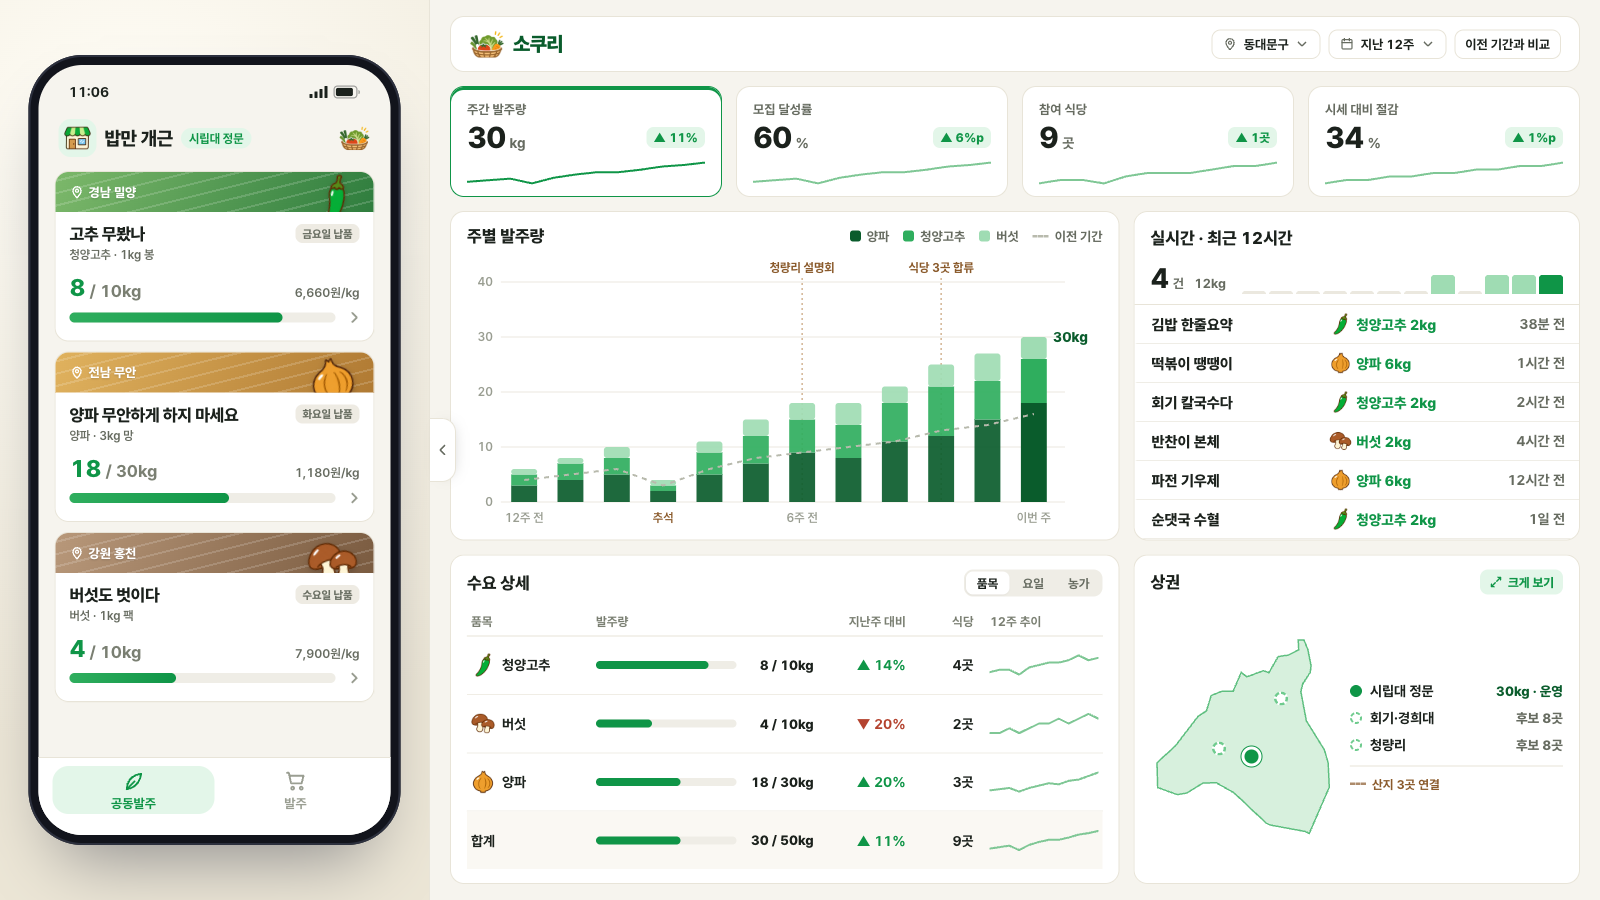
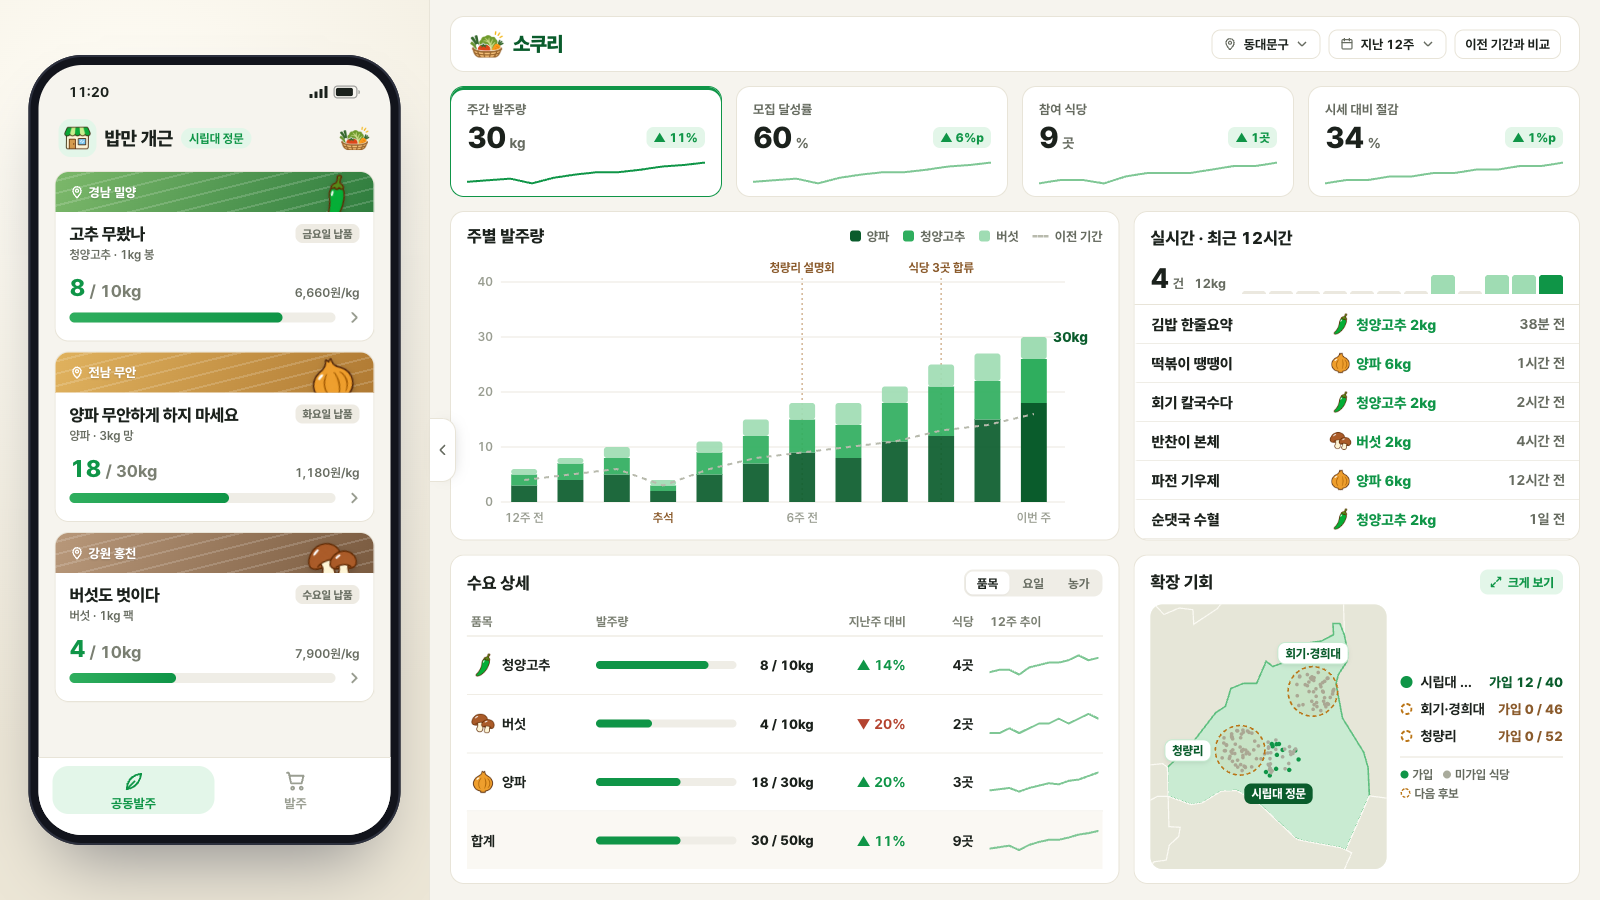
작은 지도는 확장 기회, 큰 지도는 구역별 수요 격자로
- 작은 지도: 상권별 전체 식당(회색)과 가입 식당(초록), 다음 후보 상권(주황 점선), 가입 수/전체 식당 수
- 큰 지도: 상권 세 곳에 맞춰 확대한 격자, 칸 진하기 = 그 구역 주문량(식당 이름은 지도에 안 드러남)
- 품목 탭(전체·양파·청양고추·버섯)과 진하기 범례, 발주하면 그 칸이 잠깐 강조
- 큰 지도에서 산지 길·식당 점·구 이름은 숨김

Changed region(s): [[0.7188, 0.6222, 1.0, 0.9644]]

diff --git a/index.html b/index.html
@@ -233,18 +233,29 @@ body.loading .card::after{content:"";position:absolute;inset:14px;border-radius:
 .mini svg path{fill:#e6e6d8;stroke:#fbfaf4;stroke-width:1.2;vector-effect:non-scaling-stroke}
 .mini svg path.op{fill:#c9ebd2;stroke:#5fbf80;stroke-width:1.6}
 .mini svg path.dots{fill:url(#mdots);stroke:none}
-.mlab{position:absolute;transform:translate(-50%,calc(-100% - 10px));font-size:12px;font-weight:800;color:var(--deep);background:#fff;padding:3px 7px;border-radius:7px;box-shadow:0 0 0 1px var(--g3),0 2px 5px rgba(0,0,0,.1);white-space:nowrap;pointer-events:none}
-.mlab.on{background:var(--deep);color:#fff;box-shadow:none;transform:translate(-50%,14px)}
-.mlab[data-a="market"]{transform:translate(calc(-100% - 12px),-50%)}
+.mlab{position:absolute;transform:translate(-50%,calc(-100% - 28px));font-size:12px;font-weight:800;color:var(--deep);background:#fff;padding:3px 7px;border-radius:7px;box-shadow:0 0 0 1px var(--g3),0 2px 5px rgba(0,0,0,.1);white-space:nowrap;pointer-events:none}
+.mlab.on{background:var(--deep);color:#fff;box-shadow:none;transform:translate(-50%,24px)}
+.mini svg .pt{fill:#a9ab9c}
+.mini svg .pt.on{fill:var(--g)}
+.mini svg .cand{fill:rgba(186,117,23,.07);stroke:#BA7517;stroke-width:1.6;stroke-dasharray:4 3;vector-effect:non-scaling-stroke}
+.mini svg path.dots{display:none}
+.mlab[data-a="market"]{transform:translate(calc(-100% - 30px),-50%)}
 .mdot{position:absolute;width:15px;height:15px;border-radius:50%;transform:translate(-50%,-50%);background:#fff;border:2.5px dashed #2fae5e}
 .mdot.on{width:20px;height:20px;background:var(--g);border:3px solid #fff;box-shadow:0 0 0 1px var(--g)}
 .mini-list{display:flex;flex-direction:column;gap:10px}
 .ml{display:grid;grid-template-columns:12px minmax(0,1fr) auto;gap:8px;align-items:center;font-size:14px;font-weight:700}
 .ml i{width:12px;height:12px;border-radius:50%;border:2px dashed #6fcb8e;background:#fff}
 .ml.on i{border:0;background:var(--g)}
+.ml:not(.on) i{border:2px dashed #BA7517;background:#fff}
+.ml:not(.on) b{color:#8a5a2b}
 .ml span{white-space:nowrap;overflow:hidden;text-overflow:ellipsis}
 .ml b{font-size:13.5px;font-weight:800;color:var(--sub);white-space:nowrap}
 .ml.on b{color:var(--deep)}
+.ml-key{margin-top:2px;padding-top:10px;border-top:1px solid var(--line);display:flex;flex-wrap:wrap;gap:4px 10px;font-size:12px;font-weight:700;color:var(--sub)}
+.ml-key span{display:inline-flex;align-items:center;gap:4px;white-space:nowrap}
+.ml-key i{width:8px;height:8px;border-radius:50%;background:#a9ab9c}
+.ml-key i.g{background:var(--g)}
+.ml-key i.o{width:10px;height:10px;background:none;border:1.6px dashed #BA7517}
 .ml-foot{margin-top:2px;padding-top:10px;border-top:1px solid var(--line);font-size:12.5px;font-weight:700;color:var(--soil);display:flex;align-items:center;gap:6px}
 .ml-foot::before{content:"";width:16px;border-top:2.5px dashed var(--soil);opacity:.7}
 .mapx .ch{margin-bottom:8px}
@@ -264,7 +275,16 @@ body.loading .card::after{content:"";position:absolute;inset:14px;border-radius:
 .mapwrap .ac.plan{fill:rgba(255,255,255,.5);stroke:#6fcb8e}
 .mapwrap .shop.off{fill:#fff;stroke:#9fdcb3}
 .mapwrap .shop.me{fill:#ffd43a;stroke:var(--deep)}
-.mapwrap .shop{transition:fill .4s}
+ .mapwrap .shop{transition:fill .4s}
+.mapx .shop,.mapx .ac,.mapx .route,.mapx .farm-tag,.mapx path.dots,.mapx .dlab{display:none}
+.mapwrap path.opline{fill:none;stroke:#5fbf80;stroke-width:1.2;pointer-events:none}
+.mapwrap .gc{stroke:none}
+.mapwrap .gc.hot{animation:gch 1.6s ease-out}
+@keyframes gch{0%{fill:#ffd43a}100%{}}
+.scale{display:inline-flex;align-items:center;gap:2px;font-size:12px;font-weight:700;color:var(--sub);margin:0 6px}
+.scale i{width:14px;height:10px;border-radius:2px;display:inline-block}
+.scale i:first-of-type{margin-left:4px}.scale i:last-of-type{margin-right:4px}
+#gseg{margin-right:4px}
 .rname{display:flex;align-items:center;gap:8px;font-size:15px;font-weight:700;color:var(--sub);padding-left:18px;border-left:1px solid var(--line);white-space:nowrap}
 .rname b{color:var(--ink);font-weight:800}
 .ctl{display:inline-flex;align-items:center;gap:6px;font-size:13px;font-weight:700;border:1px solid var(--line);border-radius:9px;padding:6px 10px;background:#fff;white-space:nowrap;margin-left:8px}
@@ -511,11 +531,11 @@ body.loading .card::after{content:"";position:absolute;inset:14px;border-radius:
     <div class="dt" id="dt"></div>
    </div>
    <div class="card minic" id="minic" role="button" tabindex="0" aria-label="상권 지도 크게 보기" style="--d:380ms">
-    <div class="ch"><h3>상권</h3><span class="mx-open"><svg viewBox="0 0 24 24"><path d="M15 4h5v5M9 20H4v-5M20 4l-7 7M4 20l7-7"/></svg>크게 보기</span></div>
+    <div class="ch"><h3>확장 기회</h3><span class="mx-open"><svg viewBox="0 0 24 24"><path d="M15 4h5v5M9 20H4v-5M20 4l-7 7M4 20l7-7"/></svg>크게 보기</span></div>
     <div class="mini-body"><div class="mini" id="mini"><svg id="miniSvg" aria-hidden="true"></svg></div><div class="mini-list" id="miniList"></div></div>
    </div>
    <section class="card mapx" id="mapx" aria-label="동대문구 상권 지도" inert>
-    <div class="ch"><div class="map-heading"><h3>동대문구 상권</h3><button type="button" class="map-all" id="mapAll" hidden>‹ 전체</button></div><span class="lg"><span class="k"><i></i>이번 주 주문</span><span class="k"><i class="c"></i>아직·후보</span><span class="k"><i class="r"></i>산지</span><button type="button" class="mx-close" id="mapClose" title="Esc"><svg viewBox="0 0 24 24"><path d="M4 14h6v6M20 10h-6V4M14 10l7-7M3 21l7-7"/></svg>지도 접기</button></span></div>
+    <div class="ch"><div class="map-heading"><h3>구역별 수요</h3><button type="button" class="map-all" id="mapAll" hidden>‹ 전체</button></div><span class="lg"><div class="seg" id="gseg"><button type="button" data-v="all" class="on">전체</button><button type="button" data-v="on">양파</button><button type="button" data-v="ch">청양고추</button><button type="button" data-v="mu">버섯</button></div><span class="scale">적음<i style="background:#dff3e4"></i><i style="background:#b5e3c1"></i><i style="background:#7fcb96"></i><i style="background:#3aa865"></i><i style="background:#0f7a3c"></i>많음</span><span class="k"><i class="c"></i>후보 상권</span><button type="button" class="mx-close" id="mapClose" title="Esc"><svg viewBox="0 0 24 24"><path d="M4 14h6v6M20 10h-6V4M14 10l7-7M3 21l7-7"/></svg>지도 접기</button></span></div>
     <div class="mx-grid">
      <div class="mapbox" id="mapbox"><div class="mapwrap" id="mapwrap"><svg id="map" aria-hidden="true"></svg></div></div>
      <aside class="mx-side"><h4 id="sideTitle" aria-live="polite"></h4><div class="stores" id="stores" role="table" aria-labelledby="sideTitle"></div></aside>
@@ -605,6 +625,8 @@ const SHOP_AT=[[6,7],[-8,-4],[-13,3],[-5,8],[-3,-11],[4,11],[-17,-8],[-11,12],[7
 /* shops in the gate area that have not ordered this week (last two dots) */
 const IDLE=['국수 휴강','분식 중간고사'];
 const EXPECT={campus:24,market:28};
+/* all restaurants per area (demo counts) for the expansion map */
+const AREA_SHOPS={gate:40,campus:46,market:52};
 const PREVIOUS_WEEKS=[6,8,10,4,11,15,18,18,21,25,27];
 const RETAIL={ch:10500,on:1650,mu:11800};
 /* demo history for the report: 11 past weeks, this week comes from live data */
@@ -782,9 +804,9 @@ function placeMarker(el,{x,y}){
 function renderMap(){
   const op=GEO.find(([d])=>d==='동대문구')[1];
   map.innerHTML=`<defs><linearGradient id="opf" x1="0" y1="0" x2="0" y2="1"><stop offset="0" stop-color="#d7f0dd"/><stop offset="1" stop-color="#bfe6c9"/></linearGradient>
-   <pattern id="dots" width="4" height="4" patternUnits="userSpaceOnUse"><circle cx="2" cy="2" r=".45" fill="#7fc795" opacity=".55"/></pattern></defs>`+
+   <pattern id="dots" width="4" height="4" patternUnits="userSpaceOnUse"><circle cx="2" cy="2" r=".45" fill="#7fc795" opacity=".55"/></pattern><clipPath id="opclip"><path d="${op}"/></clipPath></defs>`+
    GEO.map(([district,path])=>`<path d="${path}"${district==='동대문구'?' class="op"':''}/>`).join('')+
-   `<path class="dots" d="${op}"/><g id="areas"></g><g id="routes"></g><g id="shops"></g>`;
+   `<path class="dots" d="${op}"/><g id="grid" clip-path="url(#opclip)"></g><path class="opline" d="${op}"/><g id="areas"></g><g id="routes"></g><g id="shops"></g>`;
   mapBounds=$('.op',map).getBBox();
   GEO.forEach(([district],i)=>{if(district==='동대문구')return;const b=$$('path',map)[i].getBBox();
     const lab=document.createElement('span');lab.className='dlab';lab.textContent=district;lab._p={x:b.x+b.width/2,y:b.y+b.height/2};mw.appendChild(lab)});
@@ -815,8 +837,9 @@ function positionMap(){
 function fitMap(){
   const bw=mw.clientWidth,bh=mw.clientHeight;
   if(!bw||!bh||!mapBounds)return;
-  const {x,y,width,height}=mapBounds,ratio=bw/bh;
-  const w=Math.max(width+90,(height+26)*ratio),h=w/ratio;
+  /* frame the three market areas, not the whole district, so the demand grid reads at half height */
+  const A=[ME,...CANDS],x=Math.min(...A.map(a=>a.x))-26,y=Math.min(...A.map(a=>a.y))-14,width=Math.max(...A.map(a=>a.x))+26-x,height=Math.max(...A.map(a=>a.y))+24-y,ratio=bw/bh;
+  const w=Math.max(width,height*ratio),h=w/ratio;
   view={x:x+(width-w)/2,y:y+(height-h)/2,w,h};
   map.setAttribute('viewBox',`${view.x} ${view.y} ${w} ${h}`);
   const u=w/bw;
@@ -875,6 +898,19 @@ function renderAreas(){
 function renderShops(){
   $$('.shop',map).forEach(c=>{const st=c.dataset.store;c.classList.toggle('off',!S.storeOrders.has(st));c.classList.toggle('me',st===ME.store&&S.storeOrders.has(st))});
 }
+/* demand grid: store orders summed per cell, store names never on the map */
+const CELL=5,GRID_C=['#dff3e4','#b5e3c1','#7fcb96','#3aa865','#0f7a3c'];S.gridItem='all';
+const qtyOf=st=>S.gridItem==='all'?BUNDLES.reduce((t,b)=>t+(b.stores.get(st)||0),0):(BOF(S.gridItem).stores.get(st)||0);
+function renderGrid(hot){
+  const g=$('#grid');if(!g||!mapBounds||!ME.x)return;
+  const {x,y,width,height}=mapBounds,cols=Math.ceil(width/CELL),rows=Math.ceil(height/CELL),val=new Map(),key=(px,py)=>`${Math.floor((px-x)/CELL)},${Math.floor((py-y)/CELL)}`;
+  [ME.store,...ST,...IDLE].forEach((st,i)=>{const q=qtyOf(st);if(!q)return;const [dx,dy]=SHOP_AT[i],[c0,r0]=key(ME.x+dx,ME.y+dy).split(',').map(Number);for(let a=-1;a<=1;a++)for(let d=-1;d<=1;d++){const w=a||d?(a&&d?.25:.5):1,k=(c0+a)+','+(r0+d);val.set(k,(val.get(k)||0)+q*w)}});
+  const mx=Math.max(1,...val.values()),meKey=key(ME.x+SHOP_AT[0][0],ME.y+SHOP_AT[0][1]);
+  let h='';for(let r=0;r<rows;r++)for(let c=0;c<cols;c++){const k=`${c},${r}`,v=val.get(k)||0;
+    h+=`<rect class="gc${hot&&k===meKey&&qtyOf(ME.store)?' hot':''}" x="${x+c*CELL+.4}" y="${y+r*CELL+.4}" width="${CELL-.8}" height="${CELL-.8}" rx=".9" fill="${v?GRID_C[Math.min(4,Math.floor(v/mx*4.999))]:'#f1f4ea'}"></rect>`}
+  g.innerHTML=h;
+}
+$('#gseg').addEventListener('click',e=>{const b=e.target.closest('button');if(!b)return;S.gridItem=b.dataset.v;$$('#gseg button').forEach(x=>x.classList.toggle('on',x===b));renderGrid()});
 function markRoutes(){
   $$('.route',map).forEach(r=>{const b=BOF(r.dataset.it);r.classList.toggle('full',b.cur>=b.goal);r.classList.toggle('sel',r.dataset.it===selectedFarm)});
   $$('.farm-tag',mw).forEach(t=>{const b=BOF(t.dataset.it),f=b.cur>=b.goal;t.classList.toggle('full',f);$('.ship',t).textContent=f?`${b.cur}kg 출하`:`${b.cur}/${b.goal}kg`});
@@ -1004,7 +1040,14 @@ function buildMini(){
   miniSvg.innerHTML=`<defs><pattern id="mdots" width="4" height="4" patternUnits="userSpaceOnUse"><circle cx="2" cy="2" r=".5" fill="#7fc795" opacity=".6"/></pattern></defs>`+
     GEO.map(([d,path])=>`<path d="${path}"${d==='동대문구'?' class="op"':''}/>`).join('')+`<path class="dots" d="${op}"/>`;
   const b=$('path.op',miniSvg).getBBox();miniSvg._b=b;
-  mini.insertAdjacentHTML('beforeend',[ME,...CANDS].map(a=>`<span class="mdot${a===ME?' on':''}" data-a="${a.id}"></span><span class="mlab${a===ME?' on':''}" data-a="${a.id}">${a.area}</span>`).join(''));
+  /* scatter each area's restaurants inside the district; joined ones (gate) in green */
+  const opPath=$('path.op',miniSvg);let seed=7;const rnd=()=>(seed=(seed*16807)%2147483647)/2147483647;
+  let pts='';[ME,...CANDS].forEach(a=>{const cx=b.x+b.width*a.point[0],cy=b.y+b.height*a.point[1],joined=a===ME?2+ST.length+IDLE.length-1:0;let n=0,t=0;
+    while(n<AREA_SHOPS[a.id]&&t++<2000){const ang=rnd()*Math.PI*2,rr=Math.sqrt(rnd())*11,px=cx+Math.cos(ang)*rr,py=cy+Math.sin(ang)*rr;
+      if(!opPath.isPointInFill(new DOMPoint(px,py)))continue;pts+=`<circle class="pt${n<joined?' on':''}" cx="${px.toFixed(1)}" cy="${py.toFixed(1)}" r="${n<joined?1.15:.95}"/>`;n++}
+    if(a!==ME)pts+=`<circle class="cand" cx="${cx}" cy="${cy}" r="13"/>`});
+  miniSvg.insertAdjacentHTML('beforeend',`<g>${pts}</g>`);
+  mini.insertAdjacentHTML('beforeend',[ME,...CANDS].map(a=>`<span class="mlab${a===ME?' on':''}" data-a="${a.id}">${a.area}</span>`).join(''));
 }
 function fitMini(){
   const b=miniSvg._b;if(!b)return;const W=mini.clientWidth,H=mini.clientHeight;if(!W||!H)return;
@@ -1015,7 +1058,8 @@ function fitMini(){
     $$(`[data-a="${a.id}"]`,mini).forEach(el=>{el.style.left=x+'px';el.style.top=y+'px'})});
 }
 function renderMini(){
-  $('#miniList').innerHTML=[ME,...CANDS].map(a=>`<div class="ml${a===ME?' on':''}"><i></i><span>${a.area}</span><b>${a===ME?`${total()}kg`:`후보 ${a.stores.length}곳`}</b></div>`).join('')+`<div class="ml-foot">산지 ${BUNDLES.length}곳 연결</div>`;
+  const joined=1+ST.length+IDLE.length;
+  $('#miniList').innerHTML=[ME,...CANDS].map(a=>`<div class="ml${a===ME?' on':''}"><i></i><span>${a.area}</span><b>${a===ME?joined:0} / ${AREA_SHOPS[a.id]}곳</b></div>`).join('')+`<div class="ml-key"><span><i class="g"></i>가입</span><span><i></i>미가입 식당</span><span><i class="o"></i>다음 후보</span></div>`;
 }
 /* expanded map over the data area */
 const mapx=$('#mapx');
@@ -1025,7 +1069,7 @@ $('#minic').addEventListener('click',openMap);
 $('#minic').addEventListener('keydown',e=>{if((e.key==='Enter'||e.key===' ')&&!e.repeat){e.preventDefault();openMap()}});
 $('#mapClose').onclick=closeMap;
 function renderAdmin(flash=true){
-  renderKpis();renderChart(flash);renderRT();roll($('#pinN'),total());renderMini();renderAreas();renderShops();if(mapx.classList.contains('open'))renderAreaPanel();
+  renderKpis();renderChart(flash);renderRT();roll($('#pinN'),total());renderMini();renderAreas();renderShops();renderGrid(flash);if(mapx.classList.contains('open'))renderAreaPanel();
 }
 new ResizeObserver(()=>renderChart()).observe(chart);
 
@@ -1081,7 +1125,7 @@ function resetDemo(){
   if($('.app').classList.contains('hide'))togPhone();
   if(tab!==0)go(0);else renderFarms();
   ol.scrollTop=0;$('#p2').scrollTop=0;$('.panes').scrollLeft=0;
-  S.metric=0;S.view='item';$$('.kpi').forEach((x,i)=>x.classList.toggle('on',!i));$$('#seg button').forEach((x,i)=>x.classList.toggle('on',!i));
+  S.metric=0;S.view='item';S.gridItem='all';$$('#gseg button').forEach((x,i)=>x.classList.toggle('on',!i));$$('.kpi').forEach((x,i)=>x.classList.toggle('on',!i));$$('#seg button').forEach((x,i)=>x.classList.toggle('on',!i));
   renderAdmin(false);renderFund();
 }
 document.addEventListener('keydown',e=>{
